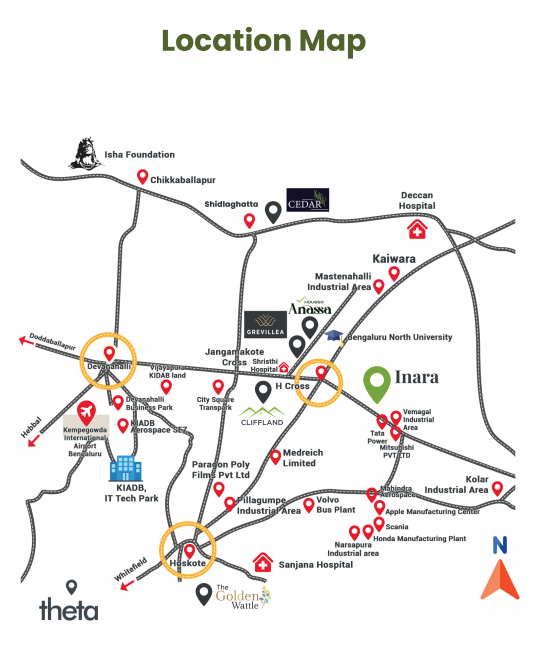
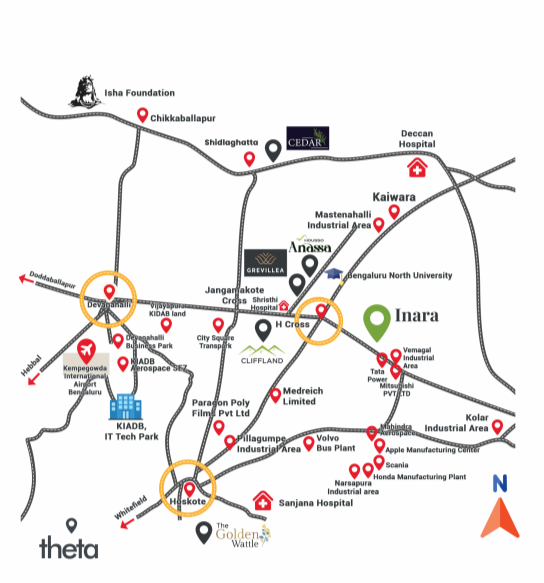
changes done

diff --git a/index.html b/index.html
@@ -365,6 +365,10 @@
             .slider-main-container-ctc {
                 touch-action: pan-y;
             }
+
+            .map-location {
+                width: 100%;
+            }
         }
     </style>
 </head>
@@ -379,9 +383,8 @@
         <section class="header  bg-dark pt-0 fixed-top">
             <nav class="navbar  navbar-expand-lg ">
                 <div class="container px-2">
-                    <a class="navbar-brand" href="https://www.houssoprojects.com/"><img
-                            src="https://www.houssoprojects.com/images/microsite/anassa/logo.png"
-                            class="img-fluid logo"></a>
+                    <a class="navbar-brand" href="https://www.houssoprojects.com/"><img src="./Inara logo.png"
+                            height="40px" class="img-fluid logo"></a>
                     <button class="navbar-toggler" type="button" data-bs-toggle="collapse"
                         data-bs-target="#navbarTogglerDemo03" aria-controls="navbarTogglerDemo03" aria-expanded="false"
                         aria-label="Toggle navigation">
@@ -519,6 +522,26 @@
                 .navbar-collapse {
                     margin-top: 15px;
                     background: #0E0929;
+                }
+            }
+
+
+            .about-image {
+                width: 600px;
+                height: 400px;
+                border-radius: 20px;
+            }
+
+            @media only screen and (max-width:480px) {
+                .about-image {
+                    height: 250px;
+                }
+
+                .slider-main-container-ctc {
+                    position: relative;
+                    width: 100vw;
+                    height: 70vh;
+                    overflow: hidden;
                 }
             }
         </style>
@@ -663,7 +686,8 @@
 
                             </div>
                             <div class="col-md-6">
-                                <img src="" alt="" class=" lazy img-fluid">
+                                <img src="./gallery-photos/Artboard 5.png" alt="photo"
+                                    class=" lazy img-fluid about-image">
                             </div>
                         </div>
                     </div>
@@ -898,7 +922,7 @@
                         <div class="row px-0 pb-5 d-flex   ">
 
                             <div class="col-md-7  px-0 py-0  justify-content-center align-self-center ">
-                                <img src="./location.png" alt="">
+                                <img src="./location.png" alt="location map" class="map-location">
                             </div>
 
 
@@ -978,181 +1002,161 @@
                                         style="transform: translate3d(-2419px, 0px, 0px); transition: 0.25s; width: 8067px;">
                                         <div class="owl-item cloned" style="width: 393.333px; margin-right: 10px;">
                                             <div class="item">
-                                                <a href="https://www.houssoprojects.com/images/anasaa/g6.jpg"
-                                                    data-fancybox="gallery" data-title="Master Plan">
-                                                    <img src="https://www.houssoprojects.com/images/anasaa/g6.jpg"
-                                                        alt="Anasaa">
+                                                <a href="./gallery-photos/Artboard 1.png" data-fancybox="gallery"
+                                                    data-title="Master Plan">
+                                                    <img src="./gallery-photos/Artboard 1.png" alt="Anasaa">
                                                 </a>
                                             </div>
                                         </div>
                                         <div class="owl-item cloned" style="width: 393.333px; margin-right: 10px;">
                                             <div class="item">
-                                                <a href="https://www.houssoprojects.com/images/anasaa/g7.jpg"
-                                                    data-fancybox="gallery" data-title="Master Plan">
-                                                    <img src="https://www.houssoprojects.com/images/anasaa/g7.jpg"
-                                                        alt="Anasaa">
+                                                <a href="./gallery-photos/Artboard 2.png" data-fancybox="gallery"
+                                                    data-title="Master Plan">
+                                                    <img src="./gallery-photos/Artboard 2.png" alt="Anasaa">
                                                 </a>
                                             </div>
                                         </div>
                                         <div class="owl-item cloned" style="width: 393.333px; margin-right: 10px;">
                                             <div class="item">
-                                                <a href="https://www.houssoprojects.com/images/anasaa/g8.jpg"
-                                                    data-fancybox="gallery" data-title="Master Plan">
-                                                    <img src="https://www.houssoprojects.com/images/anasaa/g8.jpg"
-                                                        alt="Anasaa">
+                                                <a href="./gallery-photos/Artboard 3.png" data-fancybox="gallery"
+                                                    data-title="Master Plan">
+                                                    <img src="./gallery-photos/Artboard 3.png" alt="Anasaa">
                                                 </a>
                                             </div>
                                         </div>
                                         <div class="owl-item cloned" style="width: 393.333px; margin-right: 10px;">
                                             <div class="item">
-                                                <a href="https://www.houssoprojects.com/images/anasaa/g9.jpg"
-                                                    data-fancybox="gallery" data-title="Master Plan">
-                                                    <img src="https://www.houssoprojects.com/images/anasaa/g9.jpg"
-                                                        alt="Anasaa">
+                                                <a href="./gallery-photos/Artboard 4.png" data-fancybox="gallery"
+                                                    data-title="Master Plan">
+                                                    <img src="./gallery-photos/Artboard 4.png" alt="Anasaa">
                                                 </a>
                                             </div>
                                         </div>
                                         <div class="owl-item cloned" style="width: 393.333px; margin-right: 10px;">
                                             <div class="item">
-                                                <a href="https://www.houssoprojects.com/images/anasaa/g10.jpg"
-                                                    data-fancybox="gallery" data-title="Master Plan">
-                                                    <img src="https://www.houssoprojects.com/images/anasaa/g10.jpg"
-                                                        alt="Anasaa">
+                                                <a href="./gallery-photos/Artboard 5.png" data-fancybox="gallery"
+                                                    data-title="Master Plan">
+                                                    <img src="./gallery-photos/Artboard 5.png" alt="Anasaa">
                                                 </a>
                                             </div>
                                         </div>
                                         <div class="owl-item" style="width: 393.333px; margin-right: 10px;">
                                             <div class="item">
-                                                <a href="https://www.houssoprojects.com/images/anasaa/g1.jpg"
-                                                    data-fancybox="gallery" data-title="Master Plan">
-                                                    <img src="https://www.houssoprojects.com/images/anasaa/g1.jpg"
-                                                        alt="Anasaa">
+                                                <a href="./gallery-photos/Artboard 6.png" data-fancybox="gallery"
+                                                    data-title="Master Plan">
+                                                    <img src="./gallery-photos/Artboard 6.png" alt="Anasaa">
                                                 </a>
                                             </div>
                                         </div>
                                         <div class="owl-item active" style="width: 393.333px; margin-right: 10px;">
                                             <div class="item">
-                                                <a href="https://www.houssoprojects.com/images/anasaa/g2.jpg"
-                                                    data-fancybox="gallery" data-title="Master Plan">
-                                                    <img src="https://www.houssoprojects.com/images/anasaa/g2.jpg"
-                                                        alt="Anasaa">
+                                                <a href="./gallery-photos/Artboard 7.png" data-fancybox="gallery"
+                                                    data-title="Master Plan">
+                                                    <img src="./gallery-photos/Artboard 7.png" alt="Anasaa">
                                                 </a>
                                             </div>
                                         </div>
                                         <div class="owl-item active" style="width: 393.333px; margin-right: 10px;">
                                             <div class="item">
-                                                <a href="https://www.houssoprojects.com/images/anasaa/g3.jpg"
-                                                    data-fancybox="gallery" data-title="Master Plan">
-                                                    <img src="https://www.houssoprojects.com/images/anasaa/g3.jpg"
-                                                        alt="Anasaa">
+                                                <a href="./gallery-photos/Artboard 8.png" data-fancybox="gallery"
+                                                    data-title="Master Plan">
+                                                    <img src="./gallery-photos/Artboard 8.png" alt="Anasaa">
                                                 </a>
                                             </div>
                                         </div>
                                         <div class="owl-item active" style="width: 393.333px; margin-right: 10px;">
                                             <div class="item">
-                                                <a href="https://www.houssoprojects.com/images/anasaa/g4.jpg"
-                                                    data-fancybox="gallery" data-title="Master Plan">
-                                                    <img src="https://www.houssoprojects.com/images/anasaa/g4.jpg"
-                                                        alt="Anasaa">
+                                                <a href="./gallery-photos/Artboard 9.png" data-fancybox="gallery"
+                                                    data-title="Master Plan">
+                                                    <img src="./gallery-photos/Artboard 9.png" alt="Anasaa">
                                                 </a>
                                             </div>
                                         </div>
                                         <div class="owl-item" style="width: 393.333px; margin-right: 10px;">
                                             <div class="item">
-                                                <a href="https://www.houssoprojects.com/images/anasaa/g5.jpg"
-                                                    data-fancybox="gallery" data-title="Master Plan">
-                                                    <img src="https://www.houssoprojects.com/images/anasaa/g5.jpg"
-                                                        alt="Anasaa">
+                                                <a href="./gallery-photos/Artboard 10.png" data-fancybox="gallery"
+                                                    data-title="Master Plan">
+                                                    <img src="./gallery-photos/Artboard 10.png" alt="Anasaa">
                                                 </a>
                                             </div>
                                         </div>
                                         <div class="owl-item" style="width: 393.333px; margin-right: 10px;">
                                             <div class="item">
-                                                <a href="https://www.houssoprojects.com/images/anasaa/g6.jpg"
-                                                    data-fancybox="gallery" data-title="Master Plan">
-                                                    <img src="https://www.houssoprojects.com/images/anasaa/g6.jpg"
-                                                        alt="Anasaa">
+                                                <a href="./gallery-photos/Artboard 11.png" data-fancybox="gallery"
+                                                    data-title="Master Plan">
+                                                    <img src="./gallery-photos/Artboard 11.png" alt="Anasaa">
                                                 </a>
                                             </div>
                                         </div>
                                         <div class="owl-item" style="width: 393.333px; margin-right: 10px;">
                                             <div class="item">
-                                                <a href="https://www.houssoprojects.com/images/anasaa/g7.jpg"
-                                                    data-fancybox="gallery" data-title="Master Plan">
-                                                    <img src="https://www.houssoprojects.com/images/anasaa/g7.jpg"
-                                                        alt="Anasaa">
+                                                <a href="./gallery-photos/Artboard 12.png" data-fancybox="gallery"
+                                                    data-title="Master Plan">
+                                                    <img src="./gallery-photos/Artboard 12.png" alt="Anasaa">
                                                 </a>
                                             </div>
                                         </div>
                                         <div class="owl-item" style="width: 393.333px; margin-right: 10px;">
                                             <div class="item">
-                                                <a href="https://www.houssoprojects.com/images/anasaa/g8.jpg"
-                                                    data-fancybox="gallery" data-title="Master Plan">
-                                                    <img src="https://www.houssoprojects.com/images/anasaa/g8.jpg"
-                                                        alt="Anasaa">
+                                                <a href="./gallery-photos/Artboard 13.png" data-fancybox="gallery"
+                                                    data-title="Master Plan">
+                                                    <img src="./gallery-photos/Artboard 13.png" alt="Anasaa">
                                                 </a>
                                             </div>
                                         </div>
                                         <div class="owl-item" style="width: 393.333px; margin-right: 10px;">
                                             <div class="item">
-                                                <a href="https://www.houssoprojects.com/images/anasaa/g9.jpg"
-                                                    data-fancybox="gallery" data-title="Master Plan">
-                                                    <img src="https://www.houssoprojects.com/images/anasaa/g9.jpg"
-                                                        alt="Anasaa">
+                                                <a href="./gallery-photos/Artboard 14.png" data-fancybox="gallery"
+                                                    data-title="Master Plan">
+                                                    <img src="./gallery-photos/Artboard 14.png" alt="Anasaa">
                                                 </a>
                                             </div>
                                         </div>
                                         <div class="owl-item" style="width: 393.333px; margin-right: 10px;">
                                             <div class="item">
-                                                <a href="https://www.houssoprojects.com/images/anasaa/g10.jpg"
-                                                    data-fancybox="gallery" data-title="Master Plan">
-                                                    <img src="https://www.houssoprojects.com/images/anasaa/g10.jpg"
-                                                        alt="Anasaa">
+                                                <a href="./gallery-photos/Artboard 7.png" data-fancybox="gallery"
+                                                    data-title="Master Plan">
+                                                    <img src="./gallery-photos/Artboard 7.png" alt="Anasaa">
                                                 </a>
                                             </div>
                                         </div>
                                         <div class="owl-item cloned" style="width: 393.333px; margin-right: 10px;">
                                             <div class="item">
-                                                <a href="https://www.houssoprojects.com/images/anasaa/g1.jpg"
-                                                    data-fancybox="gallery" data-title="Master Plan">
-                                                    <img src="https://www.houssoprojects.com/images/anasaa/g1.jpg"
-                                                        alt="Anasaa">
+                                                <a href="./gallery-photos/Artboard 6.png" data-fancybox="gallery"
+                                                    data-title="Master Plan">
+                                                    <img src="./gallery-photos/Artboard 6.png" alt="Anasaa">
                                                 </a>
                                             </div>
                                         </div>
                                         <div class="owl-item cloned" style="width: 393.333px; margin-right: 10px;">
                                             <div class="item">
-                                                <a href="https://www.houssoprojects.com/images/anasaa/g2.jpg"
-                                                    data-fancybox="gallery" data-title="Master Plan">
-                                                    <img src="https://www.houssoprojects.com/images/anasaa/g2.jpg"
-                                                        alt="Anasaa">
+                                                <a href="./gallery-photos/Artboard 9.png" data-fancybox="gallery"
+                                                    data-title="Master Plan">
+                                                    <img src="./gallery-photos/Artboard 9.png" alt="Anasaa">
                                                 </a>
                                             </div>
                                         </div>
                                         <div class="owl-item cloned" style="width: 393.333px; margin-right: 10px;">
                                             <div class="item">
-                                                <a href="https://www.houssoprojects.com/images/anasaa/g3.jpg"
-                                                    data-fancybox="gallery" data-title="Master Plan">
-                                                    <img src="https://www.houssoprojects.com/images/anasaa/g3.jpg"
-                                                        alt="Anasaa">
+                                                <a href="./gallery-photos/Artboard 11.png" data-fancybox="gallery"
+                                                    data-title="Master Plan">
+                                                    <img src="./gallery-photos/Artboard 11.png" alt="Anasaa">
                                                 </a>
                                             </div>
                                         </div>
                                         <div class="owl-item cloned" style="width: 393.333px; margin-right: 10px;">
                                             <div class="item">
-                                                <a href="https://www.houssoprojects.com/images/anasaa/g4.jpg"
-                                                    data-fancybox="gallery" data-title="Master Plan">
-                                                    <img src="https://www.houssoprojects.com/images/anasaa/g4.jpg"
-                                                        alt="Anasaa">
+                                                <a href="./gallery-photos/Artboard 1.png" data-fancybox="gallery"
+                                                    data-title="Master Plan">
+                                                    <img src="./gallery-photos/Artboard 1.png" alt="Anasaa">
                                                 </a>
                                             </div>
                                         </div>
                                         <div class="owl-item cloned" style="width: 393.333px; margin-right: 10px;">
                                             <div class="item">
-                                                <a href="https://www.houssoprojects.com/images/anasaa/g5.jpg"
-                                                    data-fancybox="gallery" data-title="Master Plan">
-                                                    <img src="https://www.houssoprojects.com/images/anasaa/g5.jpg"
-                                                        alt="Anasaa">
+                                                <a href="./gallery-photos/Artboard 2.png" data-fancybox="gallery"
+                                                    data-title="Master Plan">
+                                                    <img src="./gallery-photos/Artboard 2.png" alt="Anasaa">
                                                 </a>
                                             </div>
                                         </div>
